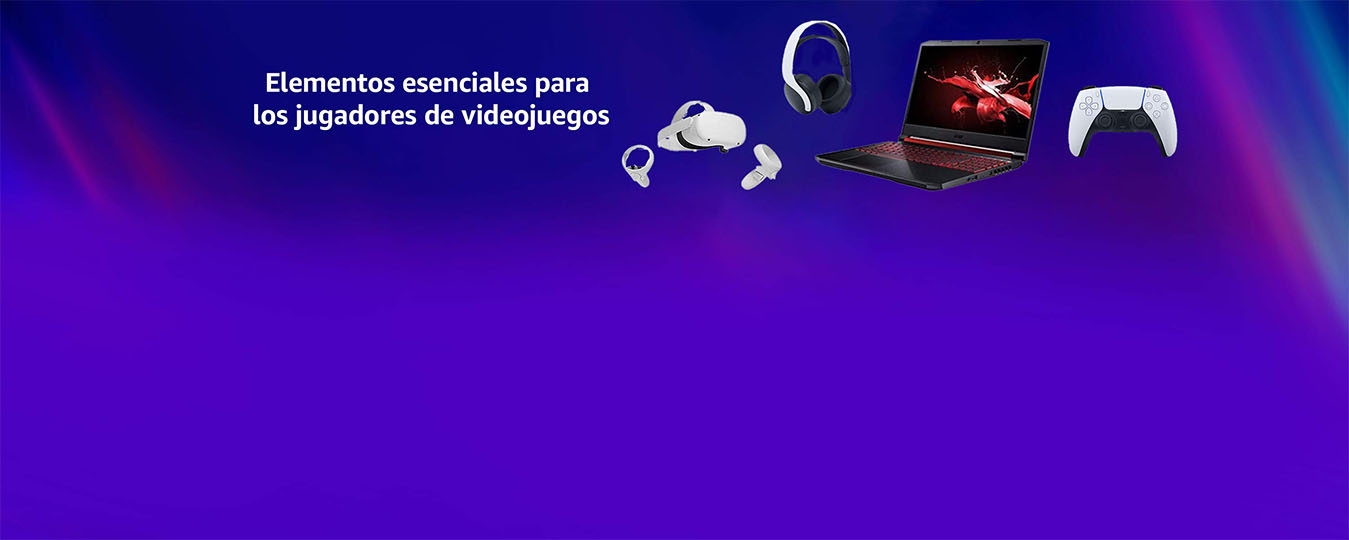
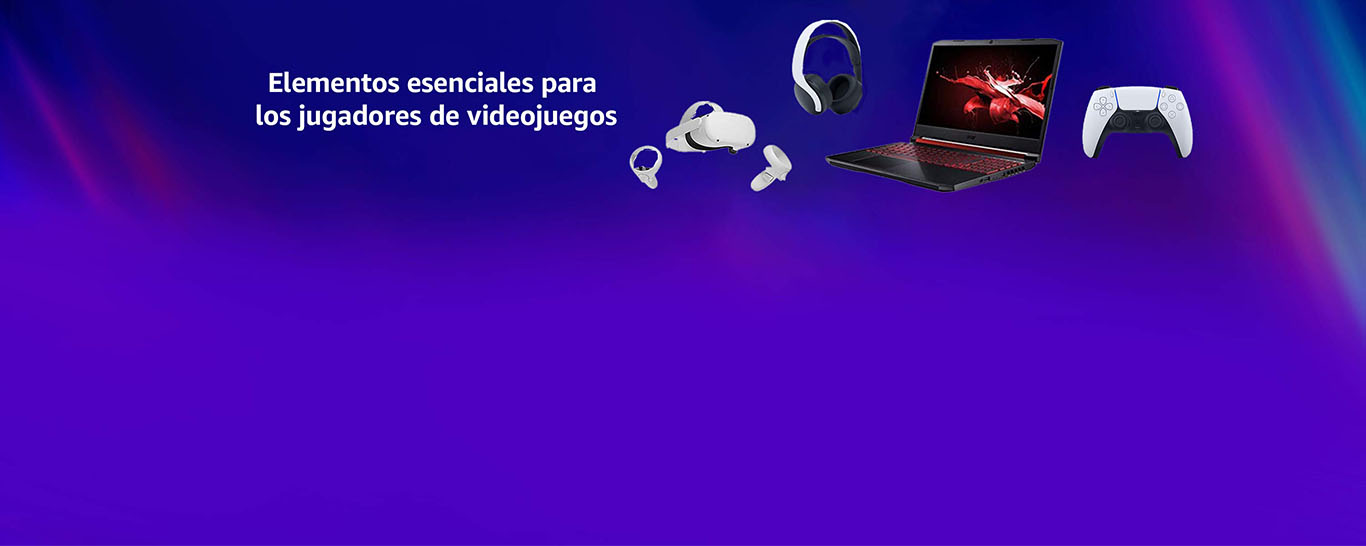
up

diff --git a/componentes/_nav.sass b/componentes/_nav.sass
@@ -1,6 +1,7 @@
 #nav
+    @include orientacion_cajas(flex, null, null, null, null, null, null, null, null)
     &_superior
-        @include orientacion_cajas(flex, null, null, center, null, null, 15px, null, 0px 10px 0px 10px)
+        @include orientacion_cajas(flex, null, space-between, center, null, null, null, null, 0px 10px 0px 10px)
         background-color: $color_bg_navSuperior
         color: white
         height: 60px
@@ -28,21 +29,20 @@
                 @include nav_hover
         &_centro
             @include orientacion_cajas(flex, null, center, center, null, null, null, null, 0.6px 0px 0px 0px)
-            width: 680px
+            width: 661px
             height: 40px
             position: relative
             &_selectorDeCategorias 
-                @include orientacion_cajas(flex, null, center, center, null, null,)
+                @include orientacion_cajas(flex, null, null, null, null, null,)
                 &_lista
                     position: absolute
-                    left: -0.55px
                     color: #555555
                     border: none
                     outline: none
                     appearance: none
                     width: 65px
                     height: 40px
-                    border-radius: 6px 0px 0px 6px
+                    border-radius: 4px 0px 0px 4px
                     font-size: 1.2rem
                     padding: 4px 0px 0px 10px
                 &_lista > option
@@ -65,7 +65,7 @@
                 border: none
                 outline: none
                 border-radius: 4px 4px 4px 4px
-                width: 679px
+                width: 100%
                 height: 40px
                 font-size: 1.5rem
                 padding-left: 80px
@@ -74,10 +74,11 @@
                 border-radius: 5px 5px 5px 5px
             &_lupa
                 position: absolute
-                left: 639px
+                width: 61
+                left: 620px
                 background-color: $color_bg_lupa
                 padding: 7px 8px 8px 8px
-                border-radius: 0px 6px 6px 0px
+                border-radius: 0px 4px 4px 0px
             &_lupa:hover
                 cursor: pointer
                 background-color: $color_bg_lupaHover

diff --git a/index.html b/index.html
@@ -118,14 +118,17 @@
 
     <main>
         <section id="productos" class="productos">
+            <div tabindex="0" class="productos_carrusel_bordeFlechaCarrusel1">
+                <img tabindex="0" id="productos_fondo_flechaCarruselIzquierda" src="./imagenes/flechacarruselizquierda.png" alt="">
+            </div>
+            <div class="productos_carrusel_bordeFlechaCarrusel2">
+                <img tabindex="0" id="productos_fondo_flechaCarruselDerecha" src="./imagenes/flechacarruselderecha.png" alt="">
+            </div>
             <div id="productos_fondo" class="productos_carrusel">
                 <img  id="productos_fondo_imagen" src="./imagenes/fondo1.jpg" alt="">
-                <div tabindex="0" class="productos_carrusel_bordeFlechaCarrusel1">
-                    <img tabindex="0" id="productos_fondo_flechaCarruselIzquierda" src="./imagenes/flechacarruselizquierda.png" alt="">
-                </div>
-                <div class="productos_carrusel_bordeFlechaCarrusel2">
-                    <img tabindex="0" id="productos_fondo_flechaCarruselDerecha" src="./imagenes/flechacarruselderecha.png" alt="">
-                </div>
+                <img  id="productos_fondo_imagen" src="./imagenes/fondo2.jpg" alt="">
+                <img  id="productos_fondo_imagen" src="./imagenes/fondo3.jpg" alt="">
+                <img  id="productos_fondo_imagen" src="./imagenes/fondo4.jpg" alt="">
             </div>
             </section>
             <div id="productos_grid">

diff --git a/componentes/_fondoDifuminado.sass b/componentes/_fondoDifuminado.sass
@@ -1,9 +1,11 @@
 #productos_fondo
-    width: 100%
+    display: flex
+    // width: 100%
     position: relative
+    animation: animacionTransicionAutomatica 16.8s linear infinite
 #productos_fondo_imagen
-    width: 100%
-#productos_fondo::after 
+    width: 1366px
+#productos_fondo::after
     content: ""
     width: 100%
     height: 300px
@@ -14,6 +16,30 @@
 #productos_fondo:hover
     cursor: pointer
 
+@keyframes animacionTransicionAutomatica
+    0%
+        transform: translate(0%,0px)
+
+    24%
+        transform: translate(0%,0px)
+
+    25.2%
+        transform: translate(-1366px,0px)
+
+    49.2%
+        transform: translate(-1366px,0px)
+
+    50.4%
+        transform: translate(-2732px,0px)
+
+    74.4%
+        transform: translate(-2732px,0px)
+
+    75.6%
+        transform: translate(-4098px,0px)
+
+    100%
+        transform: translate(-4098px,0px)
 
 #productos_fondo_flechaCarruselIzquierda
     width: 25px
@@ -28,11 +54,12 @@
     align-items: center
     justify-content: center
     position: absolute
+    z-index: 1
     border-radius: 4px
     width: 75px
     height: 246px
     left: 2px
-    top: 2px
+    top: 100px
 
 .productos_carrusel_bordeFlechaCarrusel1:focus-within
     border: solid 2px #008296
@@ -48,7 +75,7 @@
     width: 75px
     height: 246px
     left: 1272px
-    top: 2px
+    top: 100px
 
 .productos_carrusel_bordeFlechaCarrusel2:focus-within
     border: solid 2px #008296

diff --git a/componentes/_estilosGlobales.sass b/componentes/_estilosGlobales.sass
@@ -8,3 +8,4 @@
 
 body
     background-color: #E3E6E6
+    overflow-x: hidden
